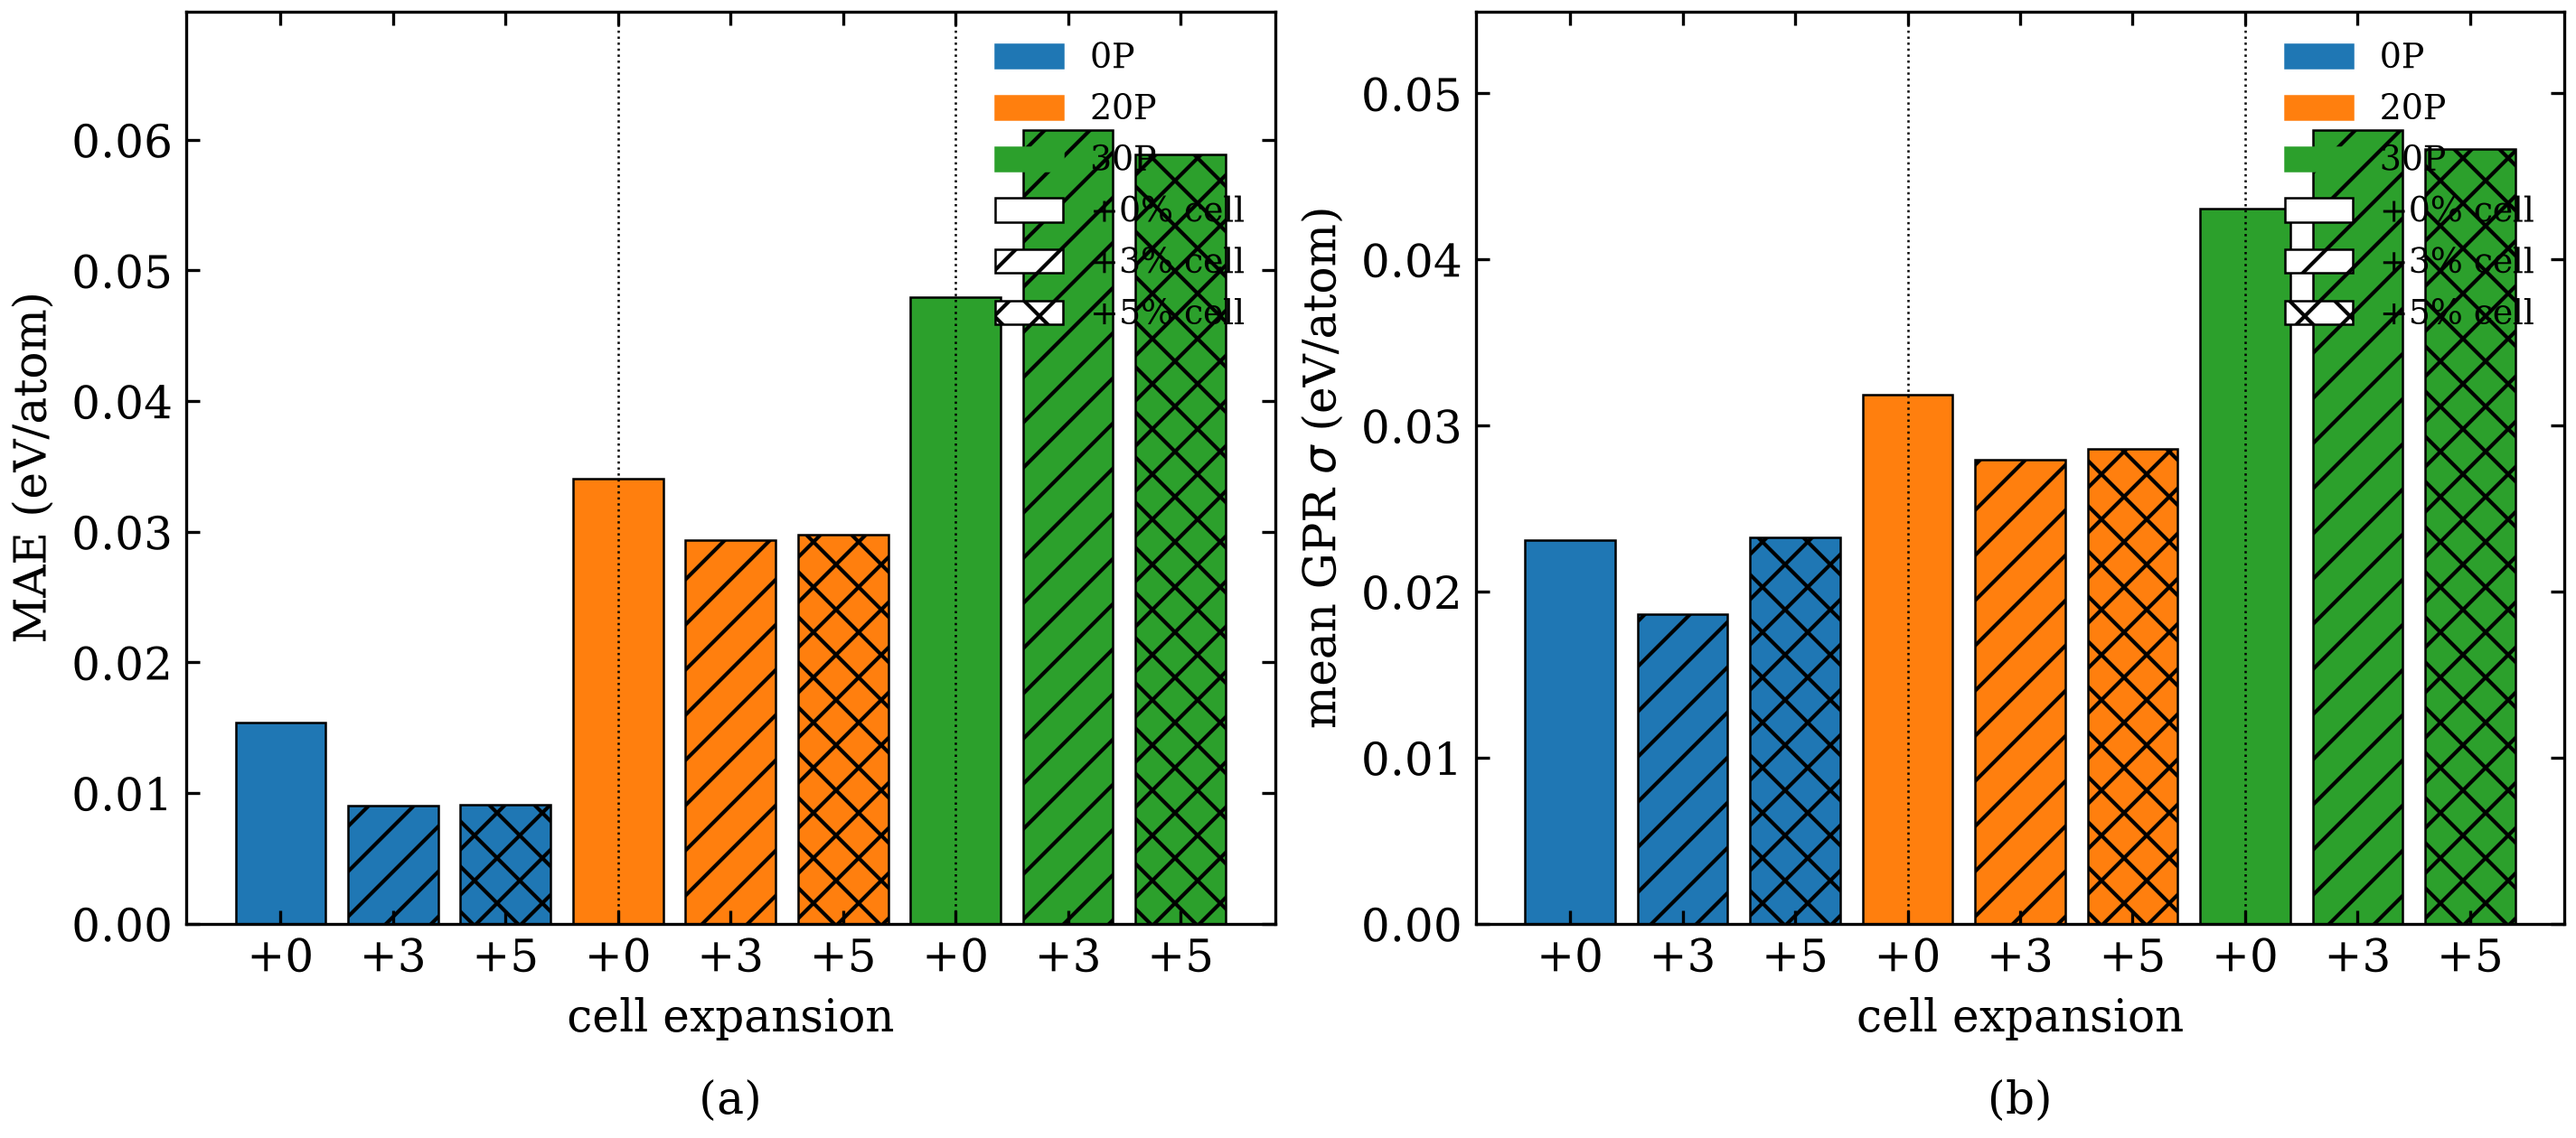
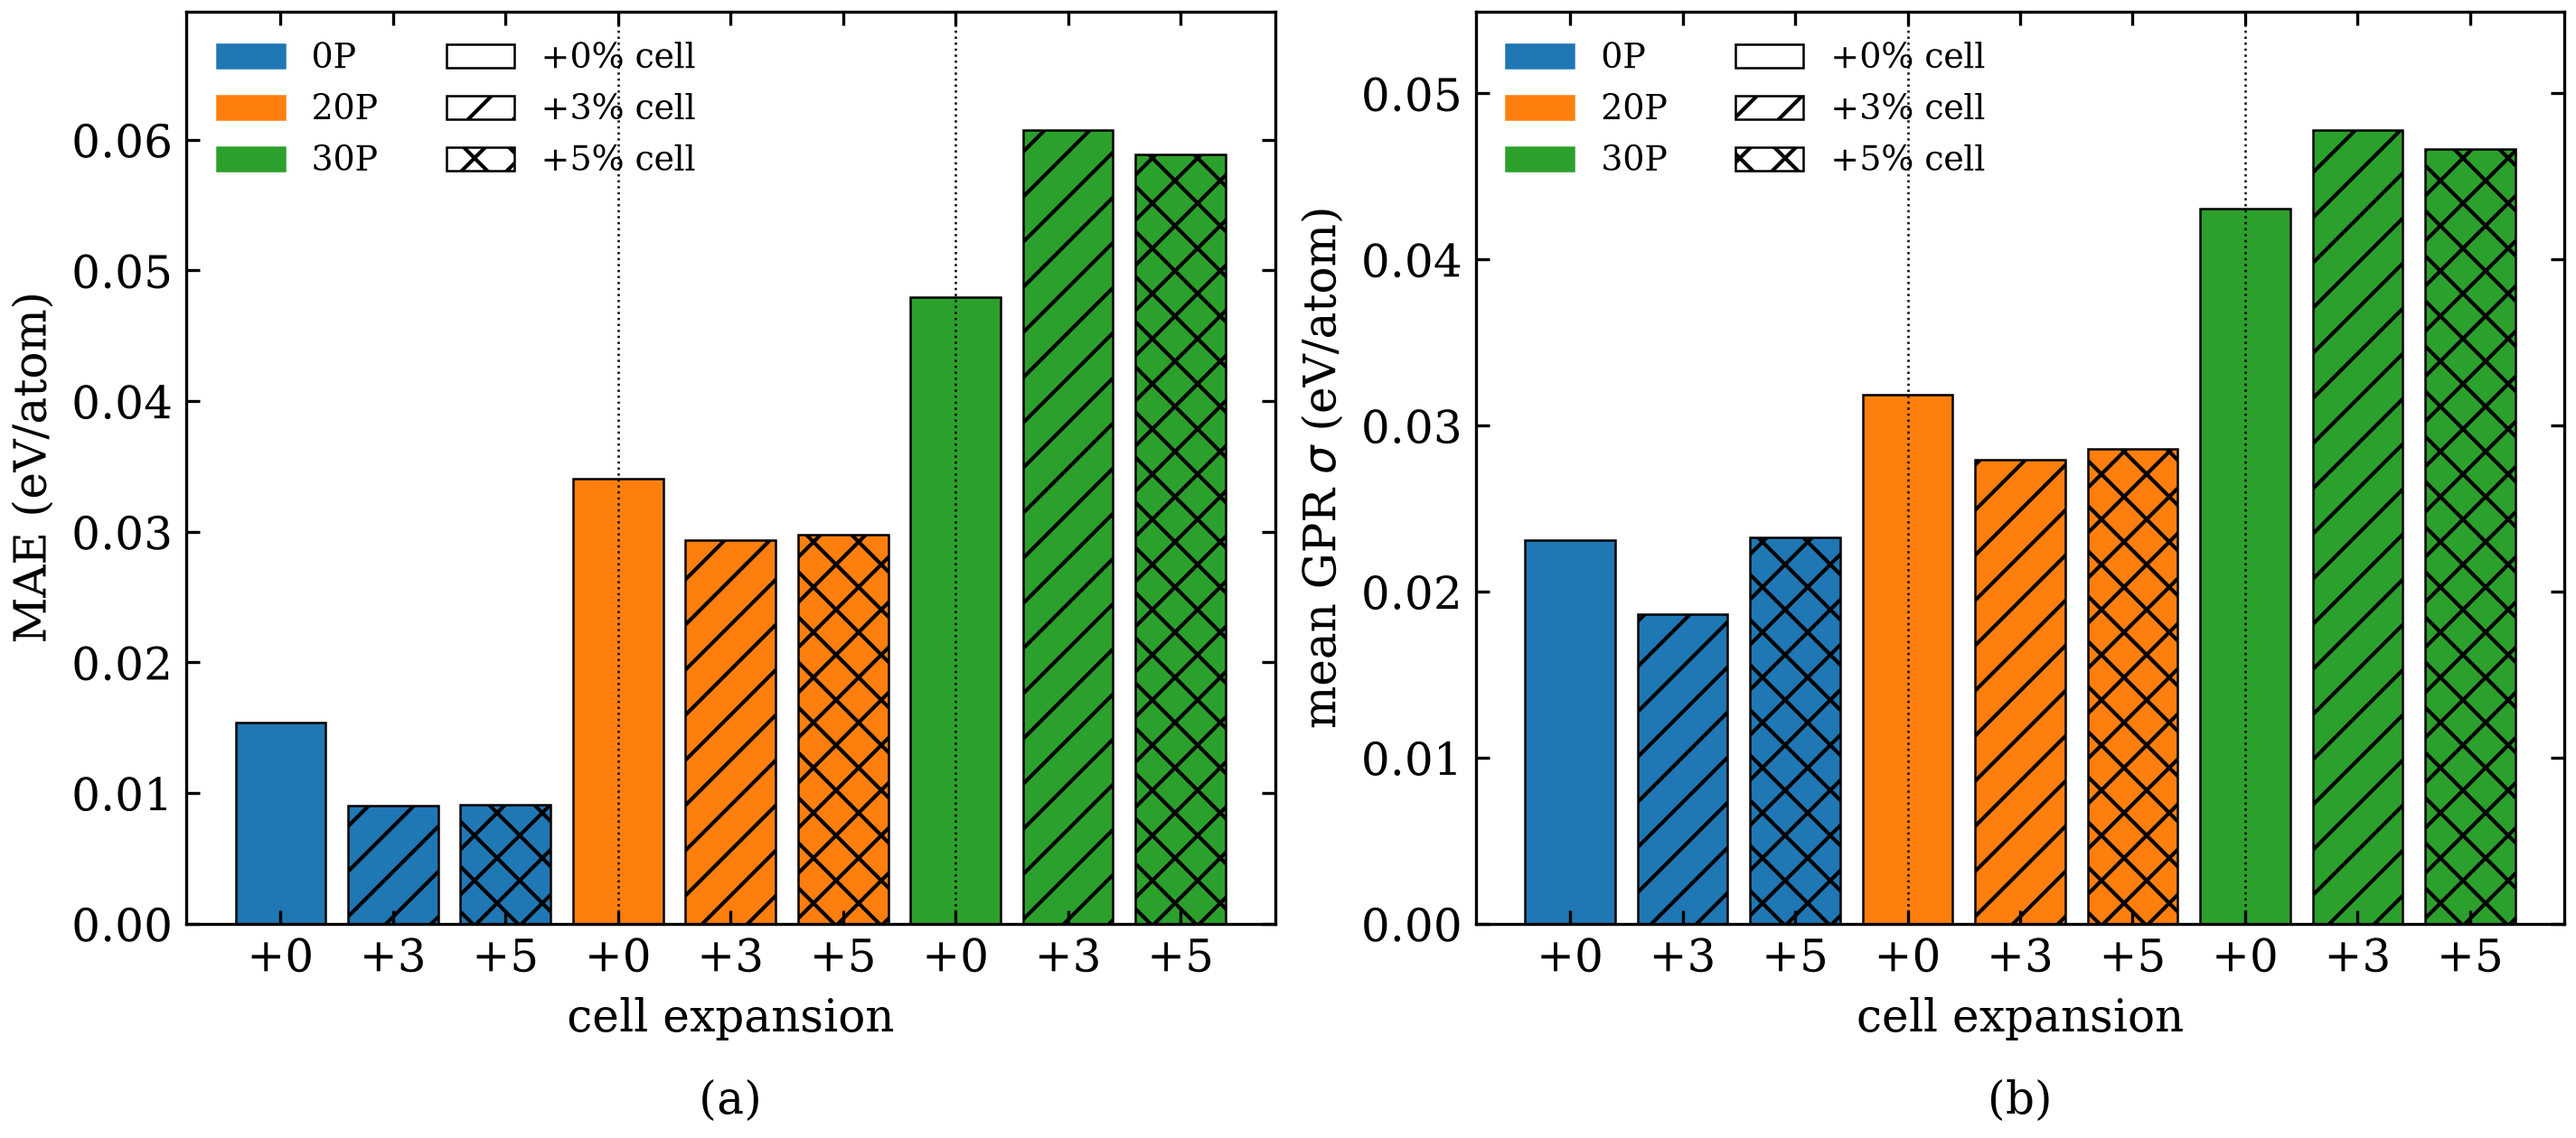
paper_amorphous: fix legend overlaps in Fig 3 and Fig 4(b)
Fig 3 (surrogate_perf): legend upper right -> upper left + ncol=2, clear of
the tall 30P bars. Fig 4(b) (crystallinity): legend upper right -> center
right, in the empty middle band clear of the top 0P line and bottom 20P/30P
lines. Bump emit_fig_surrogate_perf.py to 3.0.1 and
emit_fig_crystallinity_3panel.py to 1.0.2.

diff --git a/paper_amorphous/codes/emit_fig_crystallinity_3panel.py b/paper_amorphous/codes/emit_fig_crystallinity_3panel.py
@@ -18,7 +18,7 @@ Usage (agox_v2):
 """
 from __future__ import annotations
 
-__version__ = "1.0.1"
+__version__ = "1.0.2"
 
 import json
 import os
@@ -109,7 +109,7 @@ def main():
     ax2.set_xlabel("cell expansion")
     ax2.set_ylabel("crystalline fraction")
     ax2.set_ylim(0, 1.1)
-    ax2.legend(frameon=False, ncol=3, loc="upper right")
+    ax2.legend(frameon=False, ncol=3, loc="center right")
     # panel label at bottom-middle (title moved to CLAIMS)
     ax2.text(0.5, -0.22, "(b)", transform=ax2.transAxes, ha="center",
              va="bottom", fontsize=12)

diff --git a/paper_amorphous/codes/emit_fig_surrogate_perf.py b/paper_amorphous/codes/emit_fig_surrogate_perf.py
@@ -26,7 +26,7 @@ Usage (agox_v2):
 """
 from __future__ import annotations
 
-__version__ = "3.0.0"
+__version__ = "3.0.1"
 
 import json
 import os
@@ -119,7 +119,7 @@ def main():
                               hatch=CELL_HATCH[c], label=f"{c}% cell")
                 for c in CELL_ORDER]
     for ax in (ax1, ax2):
-        ax.legend(handles=handles, frameon=False, fontsize=9, loc="upper right")
+        ax.legend(handles=handles, frameon=False, fontsize=9, ncol=2, loc="upper left")
 
     out = os.path.join(OUTDIR, "fig_surrogate_perf.png")
     fig.savefig(out)

diff --git a/paper_amorphous/VERSIONS.md b/paper_amorphous/VERSIONS.md
@@ -30,10 +30,10 @@ Per-file `__version__` manifest. Bump patch on any edit, minor on behavior chang
 | `codes/emit_fig2_2panel.py` | 1.1.1 | Crystallinity 2-panel figure (partial RDF + crystalline-fraction vs cell) → `analysis/figures/fig2_2panel.png`. v1.1.0: panel labels moved from top-left `set_title` to bottom-center just below the axes (`ax.text(0.5, -0.22, ...)`), matching the paper-wide panel-label convention. v1.1.1: xlabel `\AA` → Unicode `Å` (mathtext only parses `\AA` inside `$...$`) |
 | `codes/emit_fig_energy_vs_force.py` | 1.1.2 | Hexbin ΔE vs max\|F\|, 3 panels by P loading. v1.1.0 plots from JSON (not DBs); v1.1.1 fixes sub-unity y-tick labels; v1.1.2 x-axis title → `$E_i - E_{\rm glob}$ (eV/atom)` |
 | `codes/emit_fig_energy_vs_force_3x3.py` | 1.1.2 | Hexbin ΔE vs max\|F\|, 3×3 (rows=cell, cols=P). v1.1.0 plots from JSON; v1.1.1 fixes sub-unity y-tick labels; v1.1.2 x-axis title → `$E_i - E_{\rm glob}$ (eV/atom)` |
-| `codes/emit_fig_crystallinity_3panel.py` | 1.0.1 | Crystallinity 3-panel figure (partial RDF + crystalline-fraction vs cell + relative cell-expansion effect) → `analysis/figures/fig_crystallinity_3panel.png`. Serves MT-1..MT-4; panel titles live in CLAIMS. v1.0.1: xlabel `\AA` → Unicode `Å` |
+| `codes/emit_fig_crystallinity_3panel.py` | 1.0.2 | Crystallinity 3-panel figure (partial RDF + crystalline-fraction vs cell + relative cell-expansion effect) → `analysis/figures/fig_crystallinity_3panel.png`. Serves MT-1..MT-4; panel titles live in CLAIMS. v1.0.1: xlabel `\AA` → Unicode `Å`; v1.0.2: panel (b) legend moved `upper right` → `center right` (clear of the top 0P line) |
 | `codes/extract_explore_exploit.py` | 1.0.0 | M-1d robustness: per-seed exploration/exploitation mean energy, global-min iteration, acquisition–energy Pearson r, per-iteration series → `analysis/explore_exploit/explore_exploit.json` (61 seeds, 13 leaves) |
 | `codes/extract_surrogate_perf.py` | 1.1.0 | M-1e: per-window surrogate predictive performance (MAE/RMSE/R²/Spearman ρ/uncertainty-calibration) from model_energy+uncertainty vs DFT energy → `analysis/surrogate_perf/surrogate_perf.json`. v1.1.0: energy cap tightened 1.0 → 0.1 eV/atom (single 0–0.1 window, matching CLAIMS v6) |
-| `codes/emit_fig_surrogate_perf.py` | 3.0.0 | M-1e 2-panel figure (MAE + GPR σ) at the single 0–0.1 eV/atom window, one bar per leaf (all 9), grouped by P loading, colored by P loading + hatch per cell → `analysis/figures/fig_surrogate_perf.png`. v2.0.0: ground-up remake (2-panel, dropped Spearman-ρ + calibration); v2.1.0: per-leaf lines (was pooled mean); v3.0.0: single-window bar chart (was multi-window line plot, x-axis 0→0.3) |
+| `codes/emit_fig_surrogate_perf.py` | 3.0.1 | M-1e 2-panel figure (MAE + GPR σ) at the single 0–0.1 eV/atom window, one bar per leaf (all 9), grouped by P loading, colored by P loading + hatch per cell → `analysis/figures/fig_surrogate_perf.png`. v2.0.0: ground-up remake (2-panel, dropped Spearman-ρ + calibration); v2.1.0: per-leaf lines (was pooled mean); v3.0.0: single-window bar chart (was multi-window line plot, x-axis 0→0.3); v3.0.1: legend moved `upper right` → `upper left` + ncol=2 (clear of the tall 30P bars) |
 | `codes/emit_fig_explore_exploit.py` | 1.0.2 | M-1d 2-panel figure (energy vs iteration + acquisition vs energy) → `analysis/figures/fig_explore_exploit.png`. v1.0.1: legend above axes + white outline on phase labels; v1.0.2: legend moved inside top-right; phase labels raised to y=0.06 (clear of global-min star) |
 | `codes/methods_timeline.mmd` | 1.0.0 | Iteration-timeline flowchart (M-1b) — source of truth for Fig. 1 in `sections/03_methods.tex` (Iteration timeline). Render: `npx @mermaid-js/mermaid-cli -i methods_timeline.mmd -o ../analysis/figures/methods_timeline.png -s 3`; staged into `papers/paper1/figures/` at compile |
 | `codes/emit_fig_xrd_crystallinity.py` | 1.0.0 | XRD crystallinity cross-check figure (MT-1, MT-3): integrated CI at lowest-energy window vs cell expansion, one line per P → `analysis/figures/fig_xrd_crystallinity.png` + `analysis/xrd_crystallinity/xrd_crystallinity.json`. Reads `data/17_PPt/*/xrd_out/crystallinity.csv` |

diff --git a/paper_amorphous/LOG.md b/paper_amorphous/LOG.md
@@ -1160,3 +1160,19 @@ numbers trace to `analysis/explore_exploit/explore_exploit.json`.
 - NEXT: on approval, draft 05_conclusion.tex / 02_introduction.tex.
 
 **Time:** 2026-10-05 JST
+
+## Session 4av — 2026-10-05 (fix legend overlaps in Fig 3 and Fig 4(b))
+**Owner request:** Fig 3 legend (upper right) was cut off by the tall 30P bars; Fig 4(b) legend (upper right) was cut through by the top 0P line. Move them.
+
+**Actions taken:**
+1. **`codes/emit_fig_surrogate_perf.py` v3.0.0 → v3.0.1:** legend `upper right` → `upper left` + `ncol=2` (clear of the short 0P bars; compact 6-entry legend). Regenerated `fig_surrogate_perf.png`.
+2. **`codes/emit_fig_crystallinity_3panel.py` v1.0.1 → v1.0.2:** panel (b) legend `upper right` → `center right` (the empty middle band, clear of both the top 0P line and the bottom 20P/30P lines). Regenerated `fig_crystallinity_3panel.png`.
+3. Staged both PNGs into `papers/paper1/figures/`. VERSIONS.md updated.
+
+**Verified:** both figures regenerate with no layout warning; `tectonic main.tex` compiles clean.
+
+**Decorations / pending:**
+- [ ] Owner review of 03_methods.tex + 04_results.tex + CLAIMS v6.
+- NEXT: on approval, draft 05_conclusion.tex / 02_introduction.tex.
+
+**Time:** 2026-10-05 JST
